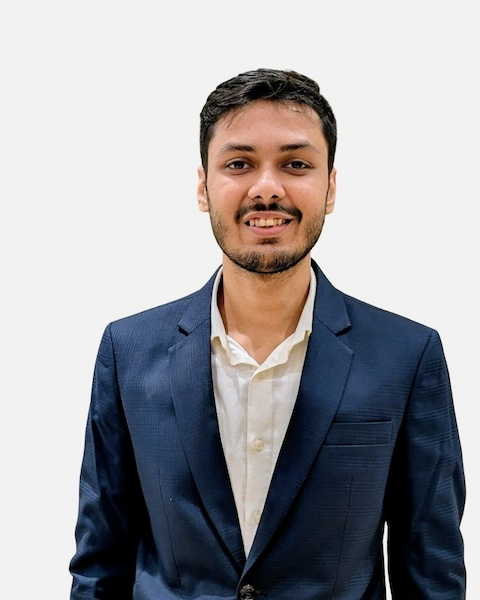
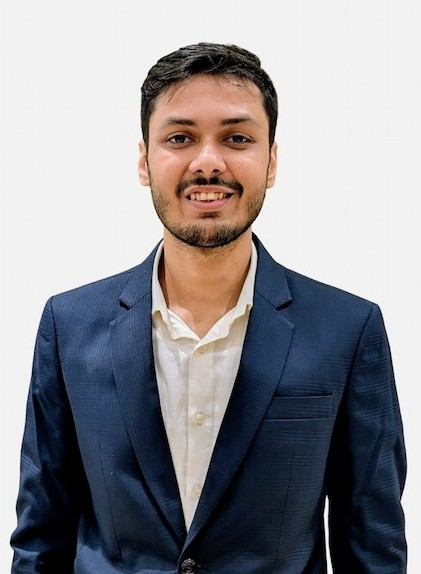
polish(hero): defensive object-position + opt-in face-forward crop mode
CSS — defensive object-position
- Add object-position: center 25% to .portrait-frame img
- With the current 4:5 source it is a no-op (aspects match, no cover-crop
  occurs), but if a wider portrait is ever swapped in without re-running
  scripts/crop-portrait.py, the face stays high in the frame

crop script — face-forward mode
- New FACE_TOP_PCT constant in scripts/crop-portrait.py (default: None)
- None  -> existing behaviour: crop centred on bbox of non-white pixels;
          face lands at upper-third (~30% from top of output). Suit visible.
- 0.08-0.18 (or similar) -> anchor bbox TOP to that fraction of output
          height; face appears higher in the frame, bottom of suit clipped.
- Re-run script after changing to regenerate public/assets/portrait.jpg

diff --git a/src/components/Hero/Hero.css b/src/components/Hero/Hero.css
@@ -219,6 +219,11 @@
   width: 100%;
   height: 100%;
   object-fit: cover;
+  /* Anchor the face if the source is ever swapped with one whose aspect
+     doesn't exactly match the frame. With the current 4:5 source this is
+     effectively a no-op, but it keeps the face high if a wider image is
+     ever dropped in without re-cropping. */
+  object-position: center 25%;
   transition: transform var(--dur-slow) var(--ease);
 }
 .portrait-frame:hover img { transform: scale(1.03); }

diff --git a/scripts/crop-portrait.py b/scripts/crop-portrait.py
@@ -1,6 +1,14 @@
 """
-Crop public/assets/portrait.jpg to a 4:5 portrait aspect ratio, centered on
-the subject. Trims white side margins, no upscaling, high-quality JPEG.
+Crop public/assets/portrait.jpg to a target portrait aspect, anchored on the
+subject. Trims white side margins, no upscaling, high-quality JPEG.
+
+Two modes:
+- Default (FACE_TOP_PCT = None):
+    crop centred on the bbox of non-white pixels. Face ends up at upper-
+    third (~30% from top). Conservative, keeps the suit visible.
+- Face-forward (FACE_TOP_PCT set, e.g. 0.18):
+    crop anchored so the bbox TOP sits at FACE_TOP_PCT of the output. Face
+    appears higher in frame; bottom of suit gets clipped.
 
 Usage:  python3 scripts/crop-portrait.py
 """
@@ -12,6 +20,10 @@ from PIL import Image
 SRC = Path(__file__).resolve().parents[1] / "public" / "assets" / "portrait.jpg"
 WHITE_THRESHOLD = 240   # pixels with all channels >= this are treated as background
 TARGET_W_RATIO, TARGET_H_RATIO = 4, 5
+
+# Set to a fraction (e.g. 0.08) to anchor the head closer to the top of
+# the output frame. None = subject-bbox-centered (default).
+FACE_TOP_PCT = None
 
 if not SRC.exists():
     sys.exit(f"missing source file: {SRC}")
@@ -38,8 +50,16 @@ if max_w > W:
     max_h = W * TARGET_H_RATIO / TARGET_W_RATIO
 
 half_w, half_h = max_w / 2.0, max_h / 2.0
-left, top = cx - half_w, cy - half_h
-right, bottom = cx + half_w, cy + half_h
+left = cx - half_w
+right = cx + half_w
+
+if FACE_TOP_PCT is None:
+    top = cy - half_h
+    bottom = cy + half_h
+else:
+    # Anchor bbox top to FACE_TOP_PCT of output. Trim from the bottom.
+    top = y_min - max_h * FACE_TOP_PCT
+    bottom = top + max_h
 
 # Clamp to image, preserving box size by shifting.
 if left < 0:
